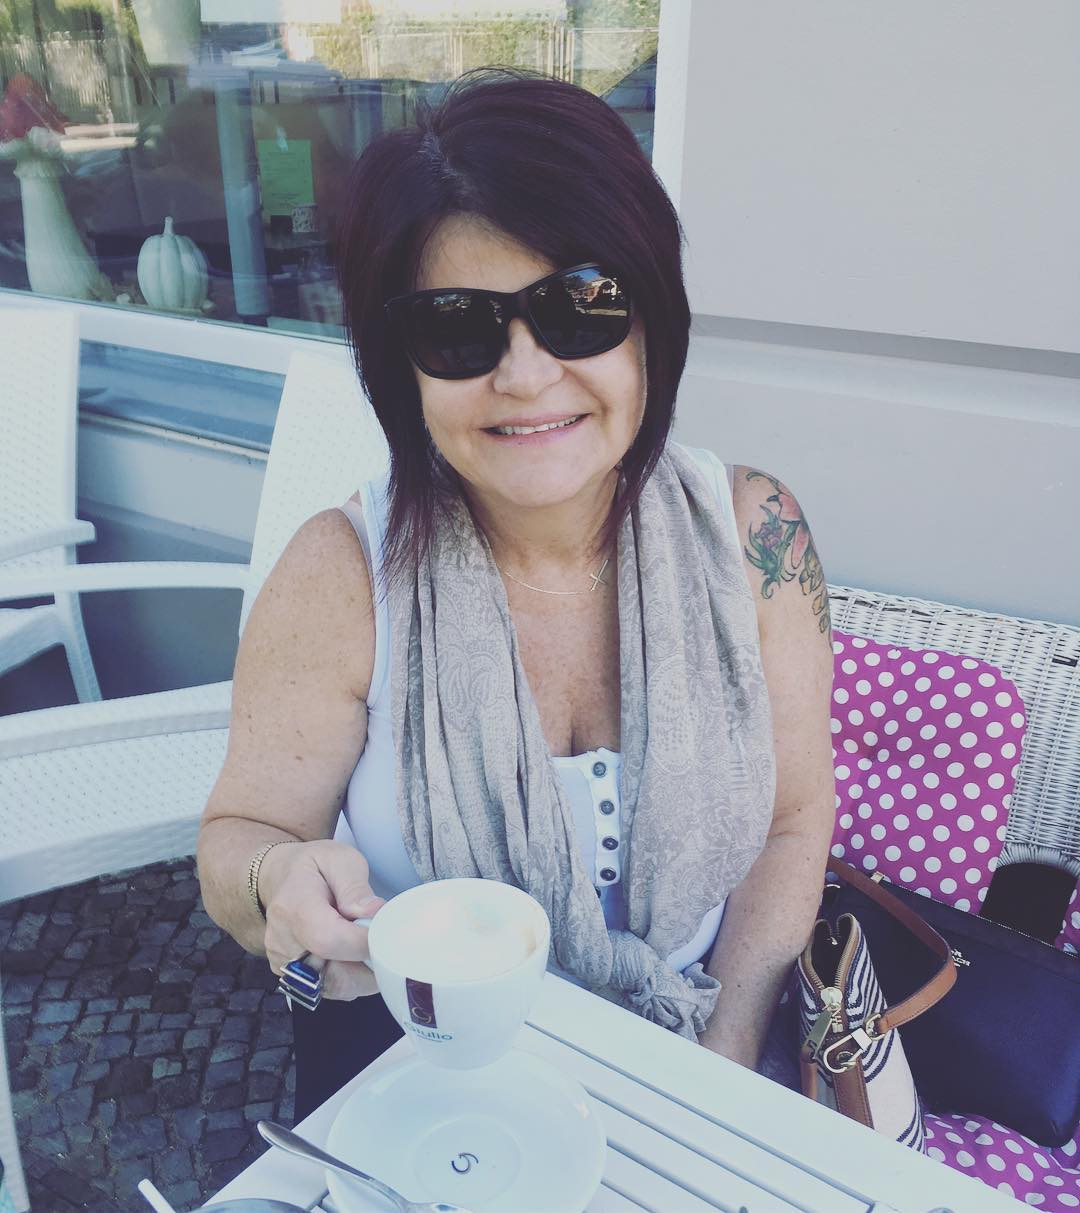
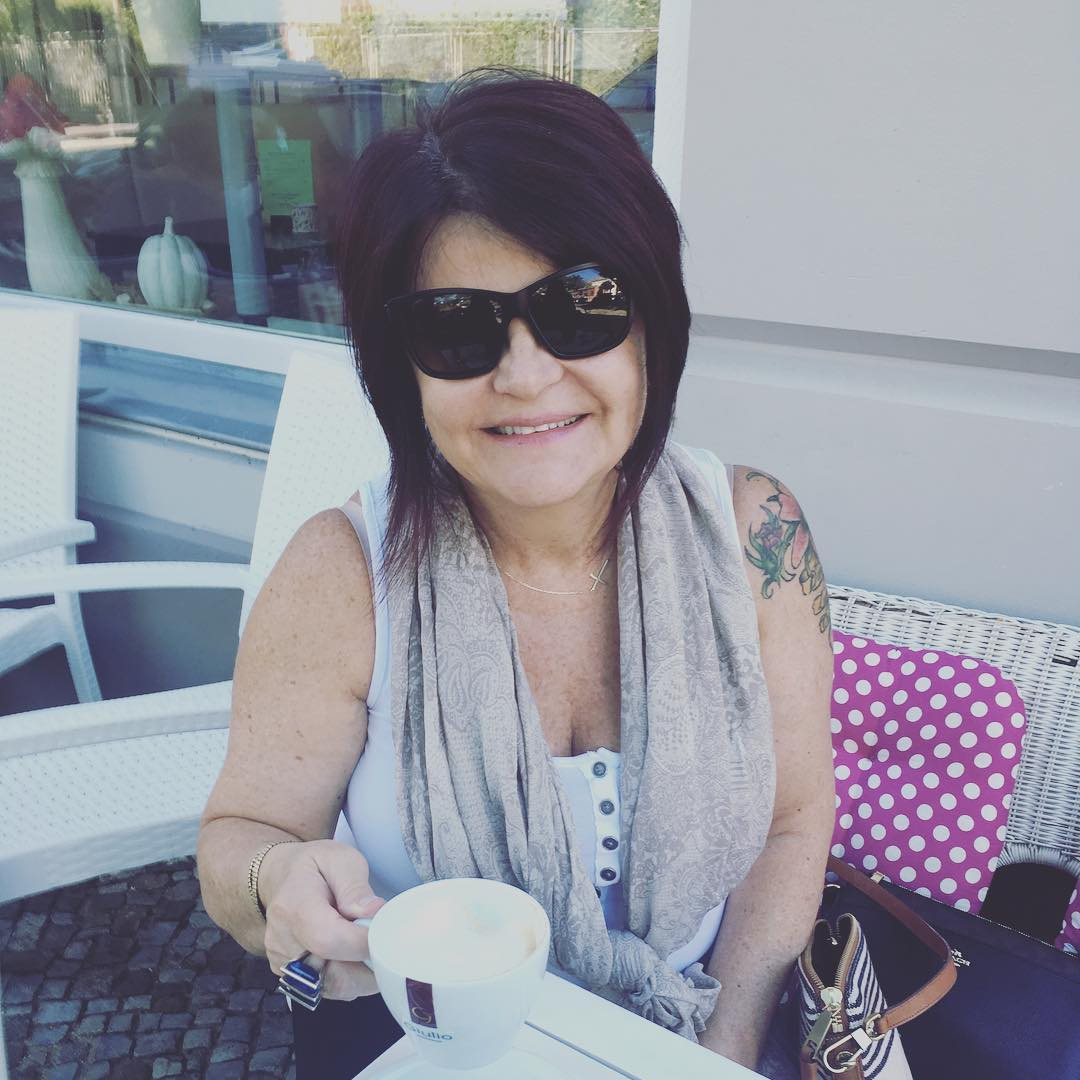
addding mroe team images

diff --git a/src/main/resources/index.html b/src/main/resources/index.html
@@ -533,7 +533,7 @@
           <div class="col-lg-3 col-md-6 d-flex align-items-stretch" data-aos="fade-up" data-aos-delay="100">
             <div class="member">
               <div class="member-img">
-                <img src="assets/img/team/mom.jpg" class="img-fluid" alt="" style="width:100%;">
+                <img src="assets/img/team/mom.jpg" class="img-fluid" alt="" style="width:100%;max-height:600px;">
                 <div class="social">
                   <a href=""><i class="icofont-twitter"></i></a>
                   <a href=""><i class="icofont-facebook"></i></a>
@@ -551,7 +551,7 @@
           <div class="col-lg-3 col-md-6 d-flex align-items-stretch" data-aos="fade-up" data-aos-delay="200">
             <div class="member">
               <div class="member-img">
-                <img src="assets/img/team/team-2.jpg" class="img-fluid" alt="">
+                <img src="assets/img/team/paul.jpg" class="img-fluid" alt="">
                 <div class="social">
                   <a href=""><i class="icofont-twitter"></i></a>
                   <a href=""><i class="icofont-facebook"></i></a>
@@ -560,8 +560,8 @@
                 </div>
               </div>
               <div class="member-info">
-                <h4>Sarah Jhonson</h4>
-                <span>Product Manager</span>
+                <h4>Paul Schaidt</h4>
+                <span>Assistant</span>
               </div>
             </div>
           </div>
